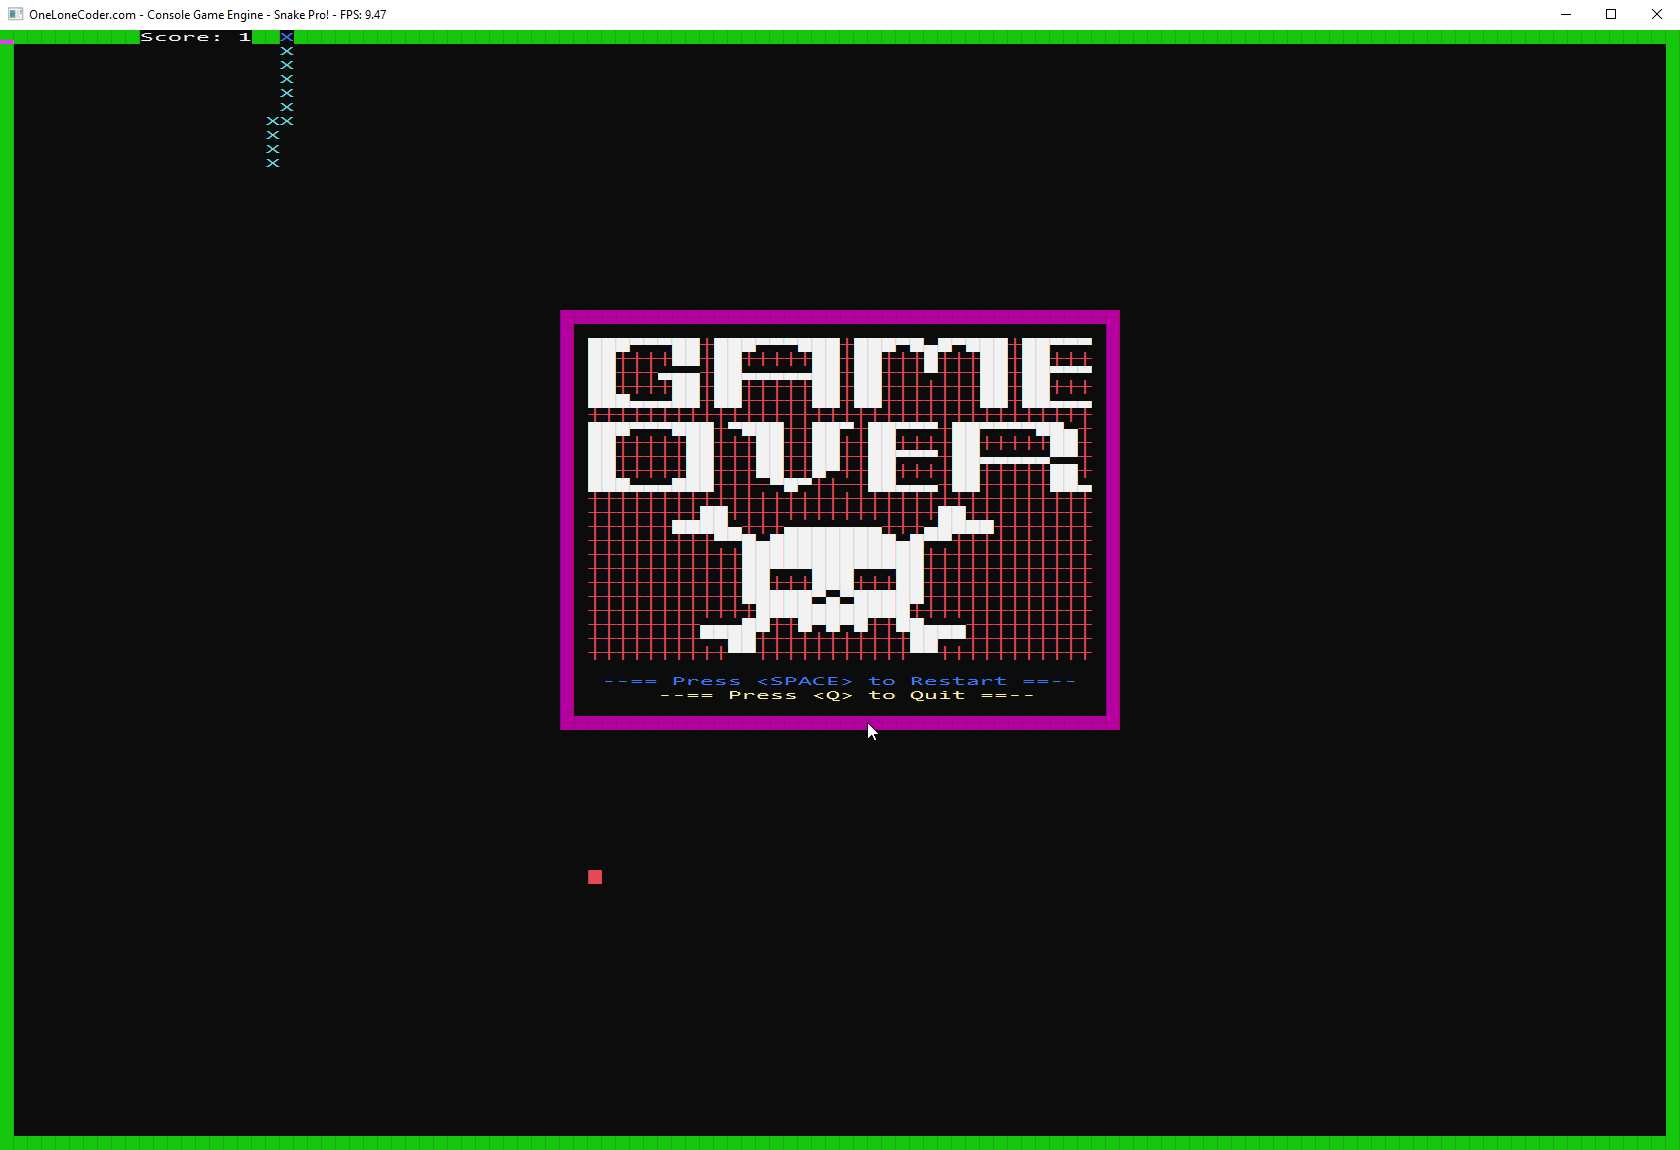
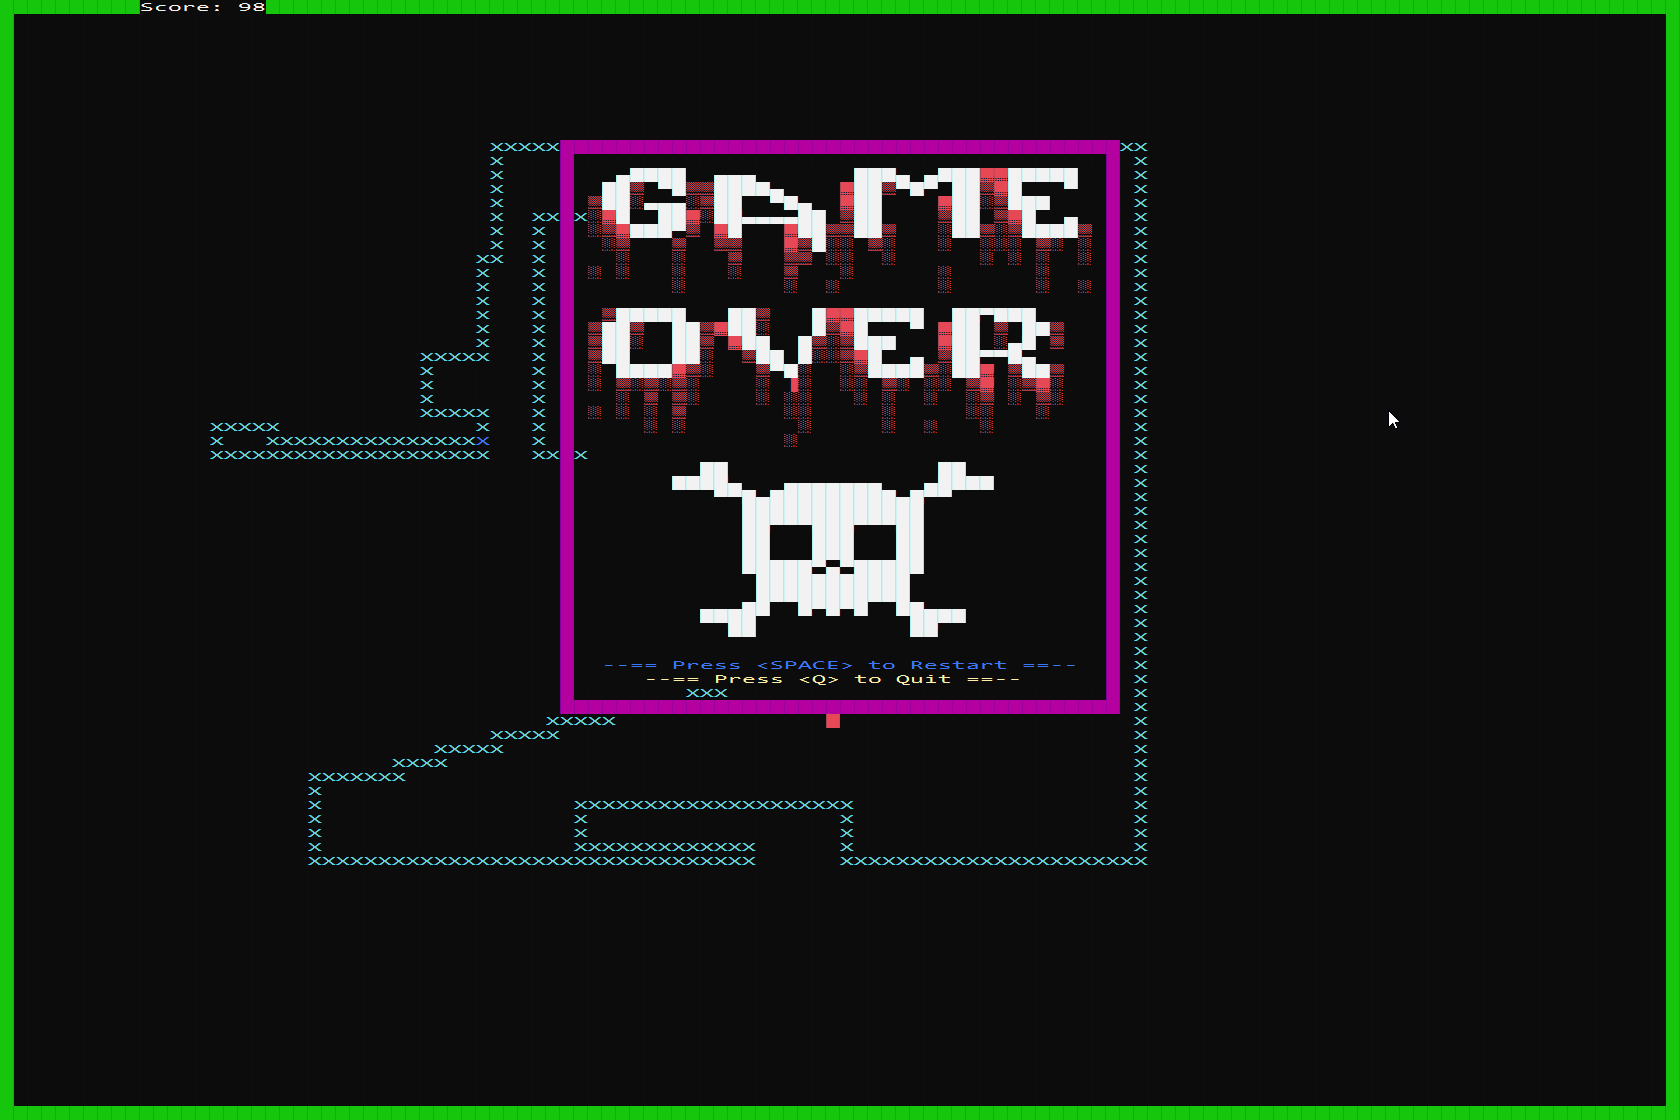
Added Pause and changes keys to directional

diff --git a/CGE_Snake/Source.cpp b/CGE_Snake/Source.cpp
@@ -24,6 +24,7 @@ public:
 	enum STATES {
 		BEGIN_STATE,
 		RUN_STATE,
+		PAUSE_STATE,
 		DEAD_STATE,
 		DRAW_STATE,
 	};
@@ -34,15 +35,39 @@ public:
 		int x;
 		int y;
 	};
+
+	struct GameMenu
+	{
+		int width;
+		int height;
+		int size;
+		std::wstring sprite;
+		GameMenu() : width(0), height(0), size(0), sprite(L"") {}
+		GameMenu(std::wstring _sprite, int _width = 0, int _height = 0,int _size = 0) : sprite(_sprite), width(_width), height(_height), size(_size) {}
+		GameMenu operator + (const GameMenu& rhs)
+		{
+			return GameMenu(this->sprite + rhs.sprite);
+		}
+		GameMenu& operator += (const std::wstring& rhs)
+		{
+			this->sprite += rhs;
+			this->width = rhs.size();
+			this->size += rhs.size();
+			this->height += 1;
+			return *this;
+		}
+	};
 	std::list<coordinate> snake = { {60,15},{61,15},{62,15},{63,15},{64,15},{65,15} };
 	coordinate nFood = { 30,15 };
 	int nScore;
 	int nSnakeDirection;
+	int nRequestedDirection;
 	bool bDead;
-	float myTime;
-	bool notDone = true;
+	float fTimePassed;
+	bool bNotDone = true;
 
-	std::wstring sGameOver;
+	GameMenu gmGameOver;
+	GameMenu gmPause;
 
 	bool moveFood()
 	{
@@ -58,41 +83,111 @@ public:
 			}
 		return false;
 	}
+	bool DrawMenu(GameMenu gmMenu)
+	{
+		short color = FG_RED;
+		int x = 0;
+		int y = 0;
+		int locationX = (ScreenWidth() / 2) - (gmMenu.width / 2);
+		int locationY = (ScreenHeight() / 2) - (gmMenu.height / 2) - 10;
+		DrawRect(locationX - 2, locationY - 2, gmMenu.width + 3, gmMenu.height + 3, PIXEL_SOLID, FG_MAGENTA);
+		for (size_t i = 0; i < gmMenu.size; i++)
+		{
+			if (gmMenu.width == x)
+			{
+				y++;
+				x = 0;
+			}
+			if (gmMenu.sprite[i] == L'█' || gmMenu.sprite[i] == L'▄' || gmMenu.sprite[i] == L'▀') color = FG_WHITE;
+			else if (gmMenu.sprite[gmMenu.width * y] == L'Y') color = FG_YELLOW;
+			else if (gmMenu.sprite[gmMenu.width * y] == L'B') color = FG_BLUE;
+			else color = FG_RED;
+			wchar_t character = gmMenu.sprite[i];
+			if (character == 'Y' || character == 'B') character = ' ';
+			Draw(locationX + x, locationY + y, character, color);
+			x++;
+		}
+		return true;
+	}
 private:
 	bool OnUserCreate()
 	{
-		sGameOver += L"███▀▀▀██┼███▀▀▀███┼███▀█▄█▀███┼██▀▀▀.";
-		sGameOver += L"██┼┼┼┼██┼██┼┼┼┼┼██┼██┼┼┼█┼┼┼██┼██┼┼┼.";
-		sGameOver += L"██┼┼┼▄▄▄┼██▄▄▄▄▄██┼██┼┼┼▀┼┼┼██┼██▀▀▀.";
-		sGameOver += L"██┼┼┼┼██┼██┼┼┼┼┼██┼██┼┼┼┼┼┼┼██┼██┼┼┼.";
-		sGameOver += L"███▄▄▄██┼██┼┼┼┼┼██┼██┼┼┼┼┼┼┼██┼██▄▄▄.";
-		sGameOver += L"┼┼┼┼┼┼┼┼┼┼┼┼┼┼┼┼┼┼┼┼┼┼┼┼┼┼┼┼┼┼┼┼┼┼┼┼.";
-		sGameOver += L"███▀▀▀███┼▀███┼┼██▀┼██▀▀▀┼██▀▀▀▀██▄┼.";
-		sGameOver += L"██┼┼┼┼┼██┼┼┼██┼┼██┼┼██┼┼┼┼██┼┼┼┼┼██┼.";
-		sGameOver += L"██┼┼┼┼┼██┼┼┼██┼┼██┼┼██▀▀▀┼██▄▄▄▄▄▀▀┼.";
-		sGameOver += L"██┼┼┼┼┼██┼┼┼██┼┼█▀┼┼██┼┼┼┼██┼┼┼┼┼██┼.";
-		sGameOver += L"███▄▄▄███┼┼┼─▀█▀┼┼─┼██▄▄▄┼██┼┼┼┼┼██▄.";
-		sGameOver += L"┼┼┼┼┼┼┼┼┼┼┼┼┼┼┼┼┼┼┼┼┼┼┼┼┼┼┼┼┼┼┼┼┼┼┼┼.";
-		sGameOver += L"┼┼┼┼┼┼┼┼██┼┼┼┼┼┼┼┼┼┼┼┼┼┼┼██┼┼┼┼┼┼┼┼┼.";
-		sGameOver += L"┼┼┼┼┼┼████▄┼┼┼▄▄▄▄▄▄▄┼┼┼▄████┼┼┼┼┼┼┼.";
-		sGameOver += L"┼┼┼┼┼┼┼┼┼▀▀█▄█████████▄█▀▀┼┼┼┼┼┼┼┼┼┼.";
-		sGameOver += L"┼┼┼┼┼┼┼┼┼┼┼█████████████┼┼┼┼┼┼┼┼┼┼┼┼.";
-		sGameOver += L"┼┼┼┼┼┼┼┼┼┼┼██▀▀▀███▀▀▀██┼┼┼┼┼┼┼┼┼┼┼┼.";
-		sGameOver += L"┼┼┼┼┼┼┼┼┼┼┼██┼┼┼███┼┼┼██┼┼┼┼┼┼┼┼┼┼┼┼.";
-		sGameOver += L"┼┼┼┼┼┼┼┼┼┼┼█████▀▄▀█████┼┼┼┼┼┼┼┼┼┼┼┼.";
-		sGameOver += L"┼┼┼┼┼┼┼┼┼┼┼┼███████████┼┼┼┼┼┼┼┼┼┼┼┼┼.";
-		sGameOver += L"┼┼┼┼┼┼┼┼▄▄▄██┼┼█▀█▀█┼┼██▄▄▄┼┼┼┼┼┼┼┼┼.";
-		sGameOver += L"┼┼┼┼┼┼┼┼▀▀██┼┼┼┼┼┼┼┼┼┼┼██▀▀┼┼┼┼┼┼┼┼┼.";
-		sGameOver += L"┼┼┼┼┼┼┼┼┼┼▀▀┼┼┼┼┼┼┼┼┼┼┼▀▀┼┼┼┼┼┼┼┼┼┼┼.";
+
+		gmPause += L"┼┼┼┼┼┼┼┼┼┼┼┼┼┼┼┼┼┼┼┼┼┼┼┼┼┼┼┼┼┼┼┼┼┼┼┼┼┼┼┼┼┼┼┼┼┼┼┼┼┼┼┼┼┼┼┼┼┼┼.";
+		gmPause += L"┼██▀▀▀▀██▄┼███▀▀▀███┼██┼┼┼┼┼██┼██▀▀▀▀███┼██▀▀▀▀▀┼██▀▀▀▀██▄┼.";
+		gmPause += L"┼██┼┼┼┼┼██┼██┼┼┼┼┼██┼██┼┼┼┼┼██┼██┼┼┼┼┼┼┼┼██┼┼┼┼┼┼██┼┼┼┼┼██┼.";
+		gmPause += L"┼██▄▄▄▄▄▀▀┼██▄▄▄▄▄██┼██┼┼┼┼┼██┼██▄▄▄▄▄▄▄┼██▀▀▀▀▀┼██┼┼┼┼┼██┼.";
+		gmPause += L"┼██┼┼┼┼┼┼┼┼██┼┼┼┼┼██┼██┼┼┼┼┼██┼┼┼┼┼┼┼┼██┼██┼┼┼┼┼┼██┼┼┼┼┼██┼.";
+		gmPause += L"┼██┼┼┼┼┼┼┼┼██┼┼┼┼┼██┼███▄▄▄███┼███▄▄▄▄██┼██▄▄▄▄▄┼██▄▄▄▄██▀┼.";
+		gmPause += L"┼┼┼┼┼┼┼┼┼┼┼┼┼┼┼┼┼┼┼┼┼┼┼┼┼┼┼┼┼┼┼┼┼┼┼┼┼┼┼┼┼┼┼┼┼┼┼┼┼┼┼┼┼┼┼┼┼┼┼.";
+
+		gmGameOver += L"  ▄████  ▄▄▄       ███▄ ▄███▓▓█████ ";
+		gmGameOver += L" ██▒ ▀█▒▒████▄    ▓██▒▀█▀ ██▒▓█   ▀ ";
+		gmGameOver += L"▒██░▄▄▄░▒██  ▀█▄  ▓██    ▓██░▒███   ";
+		gmGameOver += L"░▓█  ██▓░██▄▄▄▄██ ▒██    ▒██ ▒▓█  ▄ ";
+		gmGameOver += L"░▒▓███▀▒ ▓█   ▓██▒▒██▒   ░██▒░▒████▒";
+		gmGameOver += L" ░▒   ▒  ▒▒   ▓▒█░░ ▒░   ░  ░░░ ▒░ ░";
+		gmGameOver += L"  ░   ░   ▒   ▒▒ ░░  ░      ░ ░ ░  ░";
+		gmGameOver += L"░ ░   ░   ░   ▒   ░      ░      ░   ";
+		gmGameOver += L"      ░       ░  ░       ░      ░  ░";
+		gmGameOver += L"                                    ";
+		gmGameOver += L" ▒█████   ██▒   █▓▓█████  ██▀███    ";
+		gmGameOver += L"▒██▒  ██▒▓██░   █▒▓█   ▀ ▓██ ▒ ██▒  ";
+		gmGameOver += L"▒██░  ██▒ ▓██  █▒░▒███   ▓██ ░▄█ ▒  ";
+		gmGameOver += L"▒██   ██░  ▒██ █░░▒▓█  ▄ ▒██▀▀█▄    ";
+		gmGameOver += L"░ ████▓▒░   ▒▀█░  ░▒████▒░██▓ ▒██▒  ";
+		gmGameOver += L"░ ▒░▒░▒░    ░ ▐░  ░░ ▒░ ░░ ▒▓ ░▒▓░  ";
+		gmGameOver += L"  ░ ▒ ▒░    ░ ░░   ░ ░  ░  ░▒ ░ ▒░  ";
+		gmGameOver += L"░ ░ ░ ▒       ░░     ░     ░░   ░   ";
+		gmGameOver += L"    ░ ░        ░     ░  ░   ░       ";
+		gmGameOver += L"              ░                     ";
+		gmGameOver += L"                                    ";
+		gmGameOver += L"        ██               ██         ";
+		gmGameOver += L"      ████▄   ▄▄▄▄▄▄▄   ▄████       ";
+		gmGameOver += L"         ▀▀█▄█████████▄█▀▀          ";
+		gmGameOver += L"           █████████████            ";
+		gmGameOver += L"           ██▀▀▀███▀▀▀██            ";
+		gmGameOver += L"           ██   ███   ██            ";
+		gmGameOver += L"           ██   ███   ██            ";
+		gmGameOver += L"           █████▀▄▀█████            ";
+		gmGameOver += L"            ███████████             ";
+		gmGameOver += L"            ███████████             ";
+		gmGameOver += L"        ▄▄▄██  █▀█▀█  ██▄▄▄         ";
+		gmGameOver += L"        ▀▀██           ██▀▀         ";
+		gmGameOver += L"          ▀▀           ▀▀           ";
+		gmGameOver += L"                                    ";
+		gmGameOver += L"B--== Press <SPACE> to Restart ==-- ";
+		gmGameOver += L"Y   --== Press <Q> to Quit ==--     ";
+
+		//sGameOver += L"███▀▀▀██┼███▀▀▀███┼███▀█▄█▀███┼██▀▀▀.";
+		//sGameOver += L"██┼┼┼┼██┼██┼┼┼┼┼██┼██┼┼┼█┼┼┼██┼██┼┼┼.";
+		//sGameOver += L"██┼┼┼▄▄▄┼██▄▄▄▄▄██┼██┼┼┼▀┼┼┼██┼██▀▀▀.";
+		//sGameOver += L"██┼┼┼┼██┼██┼┼┼┼┼██┼██┼┼┼┼┼┼┼██┼██┼┼┼.";
+		//sGameOver += L"███▄▄▄██┼██┼┼┼┼┼██┼██┼┼┼┼┼┼┼██┼██▄▄▄.";
+		//sGameOver += L"┼┼┼┼┼┼┼┼┼┼┼┼┼┼┼┼┼┼┼┼┼┼┼┼┼┼┼┼┼┼┼┼┼┼┼┼.";
+		//sGameOver += L"███▀▀▀███┼▀███┼┼██▀┼██▀▀▀┼██▀▀▀▀██▄┼.";
+		//sGameOver += L"██┼┼┼┼┼██┼┼┼██┼┼██┼┼██┼┼┼┼██┼┼┼┼┼██┼.";
+		//sGameOver += L"██┼┼┼┼┼██┼┼┼██┼┼██┼┼██▀▀▀┼██▄▄▄▄▄▀▀┼.";
+		//sGameOver += L"██┼┼┼┼┼██┼┼┼██┼┼█▀┼┼██┼┼┼┼██┼┼┼┼┼██┼.";
+		//sGameOver += L"███▄▄▄███┼┼┼─▀█▀┼┼─┼██▄▄▄┼██┼┼┼┼┼██▄.";
+		//sGameOver += L"┼┼┼┼┼┼┼┼┼┼┼┼┼┼┼┼┼┼┼┼┼┼┼┼┼┼┼┼┼┼┼┼┼┼┼┼.";
+		//sGameOver += L"┼┼┼┼┼┼┼┼██┼┼┼┼┼┼┼┼┼┼┼┼┼┼┼██┼┼┼┼┼┼┼┼┼.";
+		//sGameOver += L"┼┼┼┼┼┼████▄┼┼┼▄▄▄▄▄▄▄┼┼┼▄████┼┼┼┼┼┼┼.";
+		//sGameOver += L"┼┼┼┼┼┼┼┼┼▀▀█▄█████████▄█▀▀┼┼┼┼┼┼┼┼┼┼.";
+		//sGameOver += L"┼┼┼┼┼┼┼┼┼┼┼█████████████┼┼┼┼┼┼┼┼┼┼┼┼.";
+		//sGameOver += L"┼┼┼┼┼┼┼┼┼┼┼██▀▀▀███▀▀▀██┼┼┼┼┼┼┼┼┼┼┼┼.";
+		//sGameOver += L"┼┼┼┼┼┼┼┼┼┼┼██┼┼┼███┼┼┼██┼┼┼┼┼┼┼┼┼┼┼┼.";
+		//sGameOver += L"┼┼┼┼┼┼┼┼┼┼┼█████▀▄▀█████┼┼┼┼┼┼┼┼┼┼┼┼.";
+		//sGameOver += L"┼┼┼┼┼┼┼┼┼┼┼┼███████████┼┼┼┼┼┼┼┼┼┼┼┼┼.";
+		//sGameOver += L"┼┼┼┼┼┼┼┼▄▄▄██┼┼█▀█▀█┼┼██▄▄▄┼┼┼┼┼┼┼┼┼.";
+		//sGameOver += L"┼┼┼┼┼┼┼┼▀▀██┼┼┼┼┼┼┼┼┼┼┼██▀▀┼┼┼┼┼┼┼┼┼.";
+		//sGameOver += L"┼┼┼┼┼┼┼┼┼┼▀▀┼┼┼┼┼┼┼┼┼┼┼▀▀┼┼┼┼┼┼┼┼┼┼┼.";
 
 		DrawRect(0, 0, ScreenWidth() - 1, ScreenHeight() - 1, PIXEL_SOLID, FG_GREEN);
 		return true;
 	}
 	bool OnUserUpdate(float fElapsedTime)
 	{
-		//Check Keys that apply to all states
-		if (GetKey('Q').bPressed)
-			notDone = false;
 
 		// =========================================== START OF STATES ==============================================
 
@@ -104,34 +199,56 @@ private:
 			bDead = false;
 			nScore = 0;
 			nSnakeDirection = 3;
-			myTime = 0.0f;
+			nRequestedDirection = nSnakeDirection;
+			fTimePassed = 0.0f;
 			snake = { {60,15},{61,15},{62,15},{63,15},{64,15},{65,15} };
+
+			// For Testing
+			for (int i = 0; i < 500; i++)
+				snake.push_back({ snake.back().x,snake.back().y });
+			 nScore = snake.size() / 5 - 6;
+
 			while (moveFood()); //keep moving food to random location until its not under the snake
 			DrawRect(0, 0, ScreenWidth() - 1, ScreenHeight() - 1, PIXEL_SOLID, FG_GREEN);
 			STATE = RUN_STATE;
 			break;
 
 		case RUN_STATE:
+			if (GetKey(VK_SPACE).bPressed)
+				STATE = PAUSE_STATE;
 
-			// Check for Key presses
-			if (GetKey(VK_LEFT).bPressed)
-			{
-				nSnakeDirection++;
-				if (nSnakeDirection == 4)
-					nSnakeDirection = 0;
-			}
-			if (GetKey(VK_RIGHT).bPressed)
-			{
-				nSnakeDirection--;
-				if (nSnakeDirection == -1)
-					nSnakeDirection = 3;
-			}
+			// Check for Key presses and dont allow us to move directly back into our body.
+
+			if (GetKey(VK_UP).bPressed && nSnakeDirection != 2)
+				nRequestedDirection = 0;
+			if (GetKey(VK_RIGHT).bPressed && nSnakeDirection != 3)
+				nRequestedDirection = 1;
+			if (GetKey(VK_DOWN).bPressed && nSnakeDirection != 0)
+				nRequestedDirection = 2;
+			if (GetKey(VK_LEFT).bPressed && nSnakeDirection != 1)
+				nRequestedDirection = 3;
+
+
+			//This is for Nokia style snake steering(from snakes perspective, makes it easy to do quick movmenets but the confusion often gets you killed)
+			//if (GetKey(VK_LEFT).bPressed)
+			//{
+			//	nSnakeDirection++;
+			//	if (nSnakeDirection == 4)
+			//		nSnakeDirection = 0;
+			//}
+			//if (GetKey(VK_RIGHT).bPressed)
+			//{
+			//	nSnakeDirection--;
+			//	if (nSnakeDirection == -1)
+			//		nSnakeDirection = 3;
+			//}
 
 			//Only update snake location every <FPS>.0f frames
-			myTime += fElapsedTime;
-			if (1 / myTime <= 10.0f)
+			fTimePassed += fElapsedTime;
+			if (1 / fTimePassed <= 10.0f)
 			{
-				myTime = 0.0f;
+				fTimePassed = 0.0f;
+				nSnakeDirection = nRequestedDirection;
 				switch (nSnakeDirection)
 				{
 				case 0: // UP
@@ -191,34 +308,25 @@ private:
 			if (bDead) STATE = DEAD_STATE;
 			break;
 
+		case PAUSE_STATE:
+			// Check for Key presses
+			if (GetKey(VK_SPACE).bPressed)
+				STATE = RUN_STATE;
+			DrawMenu(gmPause);
+			Sleep(10);
+
+			// We are waiting for Space to go to RUN_STATE
+			break;
+
 		case DEAD_STATE:
 
 			// Check for Key presses
+			if (GetKey('Q').bPressed)
+				bNotDone = false;
 			if (GetKey(VK_SPACE).bPressed)
 				STATE = BEGIN_STATE;
 
-			// Set Draw location for Death Screen
-			int x = 0;
-			int y = 0;
-			int locationX = ScreenWidth() / 2 - 18;
-			int locationY = ScreenHeight() / 2 - 18;
-			DrawRect(locationX - 2, locationY - 2, 39, 29, PIXEL_SOLID, FG_MAGENTA);
-			for (size_t i = 0; i < sGameOver.size(); i++)
-			{
-				if (sGameOver[i] == L'.')
-				{
-					y++;
-					x = 0;
-					i += 1;
-				}
-				m_bufScreen[(locationY + y) * m_nScreenWidth + locationX + x].Char.UnicodeChar = sGameOver[i];
-				m_bufScreen[(locationY + y) * m_nScreenWidth + locationX + x].Attributes = (sGameOver[i] == L'█' || sGameOver[i] == L'▄' || sGameOver[i] == L'▀') ? FG_WHITE : FG_RED;
-				x++;
-			}
-			std::wstring text = L"--== Press <SPACE> to Restart ==--";
-			DrawString(ScreenWidth() / 2 - text.size() / 2, locationY + y + 1, text, FG_BLUE);
-			text = L"--== Press <Q> to Quit ==--";
-			DrawString(ScreenWidth() / 2 - text.size() / 2, locationY + y + 2, text, FG_YELLOW);
+			DrawMenu(gmGameOver);
 			Sleep(10);
 
 			// We are waiting for Space to go to BEGIN_STATE
@@ -227,7 +335,7 @@ private:
 
 		// =========================================== END OF STATES ==============================================
 
-		return notDone;
+		return bNotDone;
 	}
 };
 
